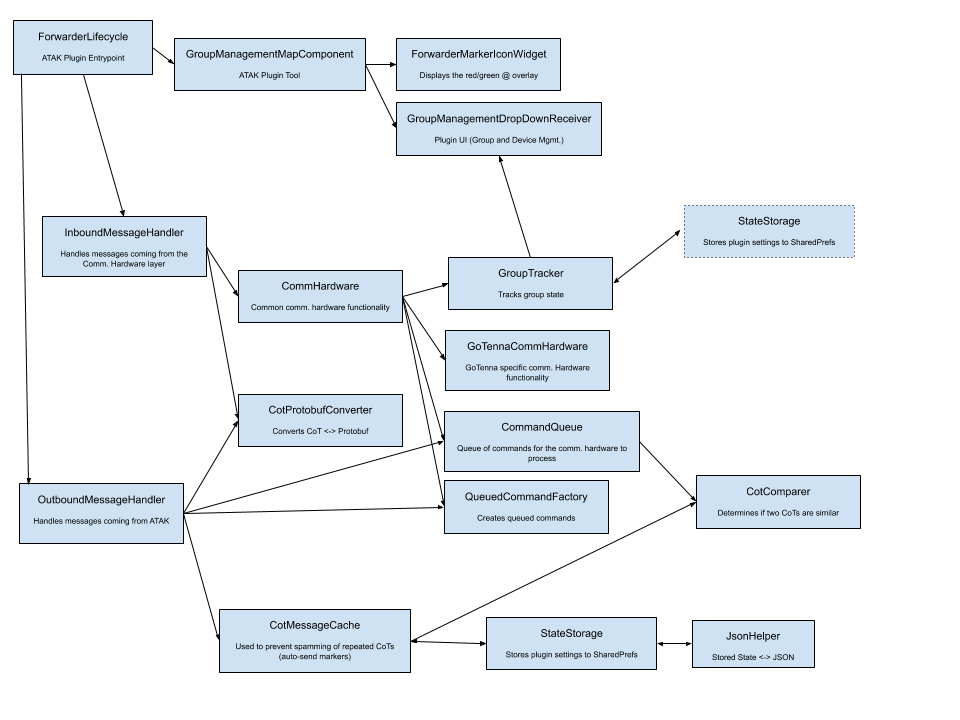
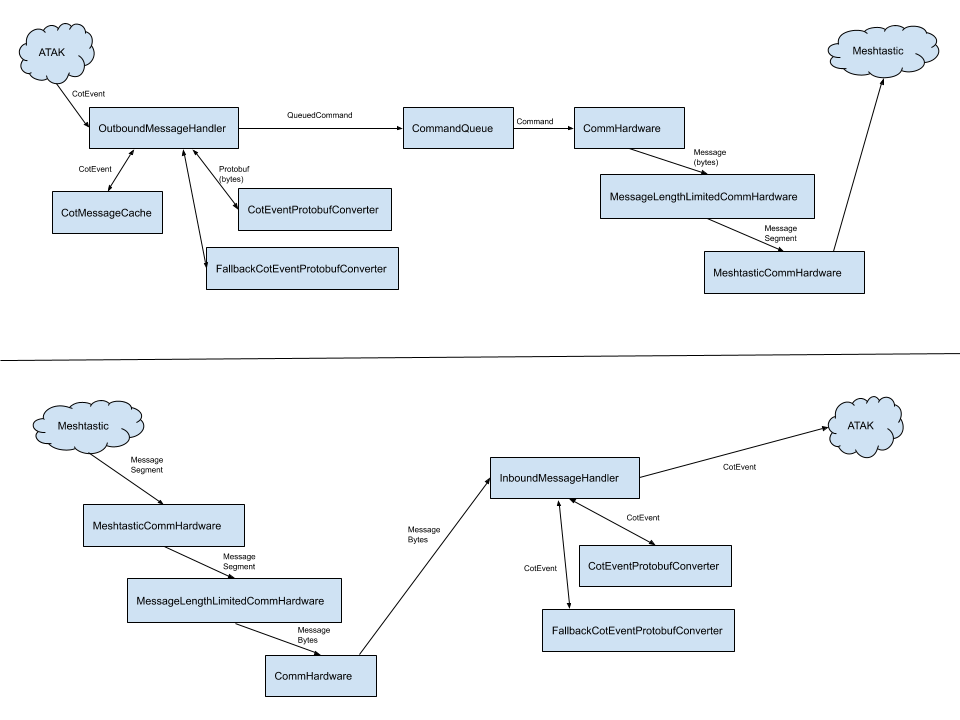
Updated architecture diagram

diff --git a/README.md b/README.md
@@ -15,7 +15,8 @@ An ~~application/service~~ ATAK plugin for forwarding CoT messages via a hardwar
 ![Transmit Map Markers](https://github.com/paulmandal/atak-forwarder/raw/master/images/transmit-map-markers.png)
 <br>
 Supports Meshtastic devices without an ATAK EUD attached
-![Support non-ATAK Devices](https://github.com/paulmandal/atak-forwarder/raw/master/images/non-atak-devices.png)
+![Support non-ATAK Devices](https://github.com/paulmandal/atak-forwarder/raw/master/images/non-atak-devices-configuration.png)
+![Support non-ATAK Devices](https://github.com/paulmandal/atak-forwarder/raw/master/images/non-atak-devices-map-marker.png)
 <br>
 ![Example Usage](https://github.com/paulmandal/atak-forwarder/raw/master/images/example-usage.png)
 
@@ -123,7 +124,7 @@ The ATAK Forwarder supports configuring Meshtastic devices that have a GPS but n
 * After the spinning progress bar disappears check the devices channel on its LCD, if the channel is updated reset the device by pressing the reset button for a second or two
 * You should see your device appear on the map after it boots back up, its location should start updating once it has a GPS lock
 
-# Architecture Diagram (somewhat outdated)
+# Architecture Diagram
 
 ![alt text](https://github.com/paulmandal/atak-forwarder/raw/master/images/arch-diagram.png "Architecture Diagram")
 
